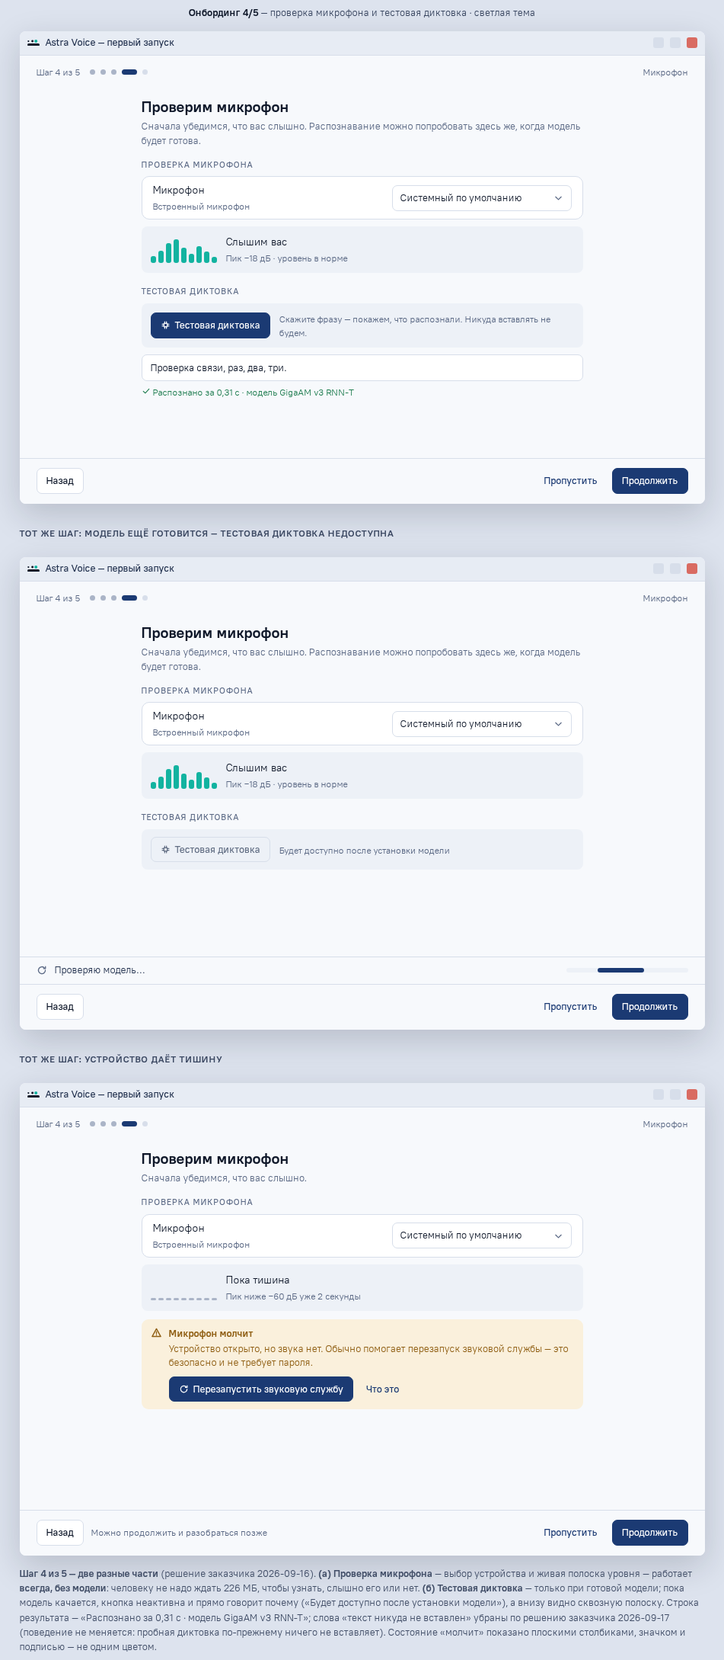
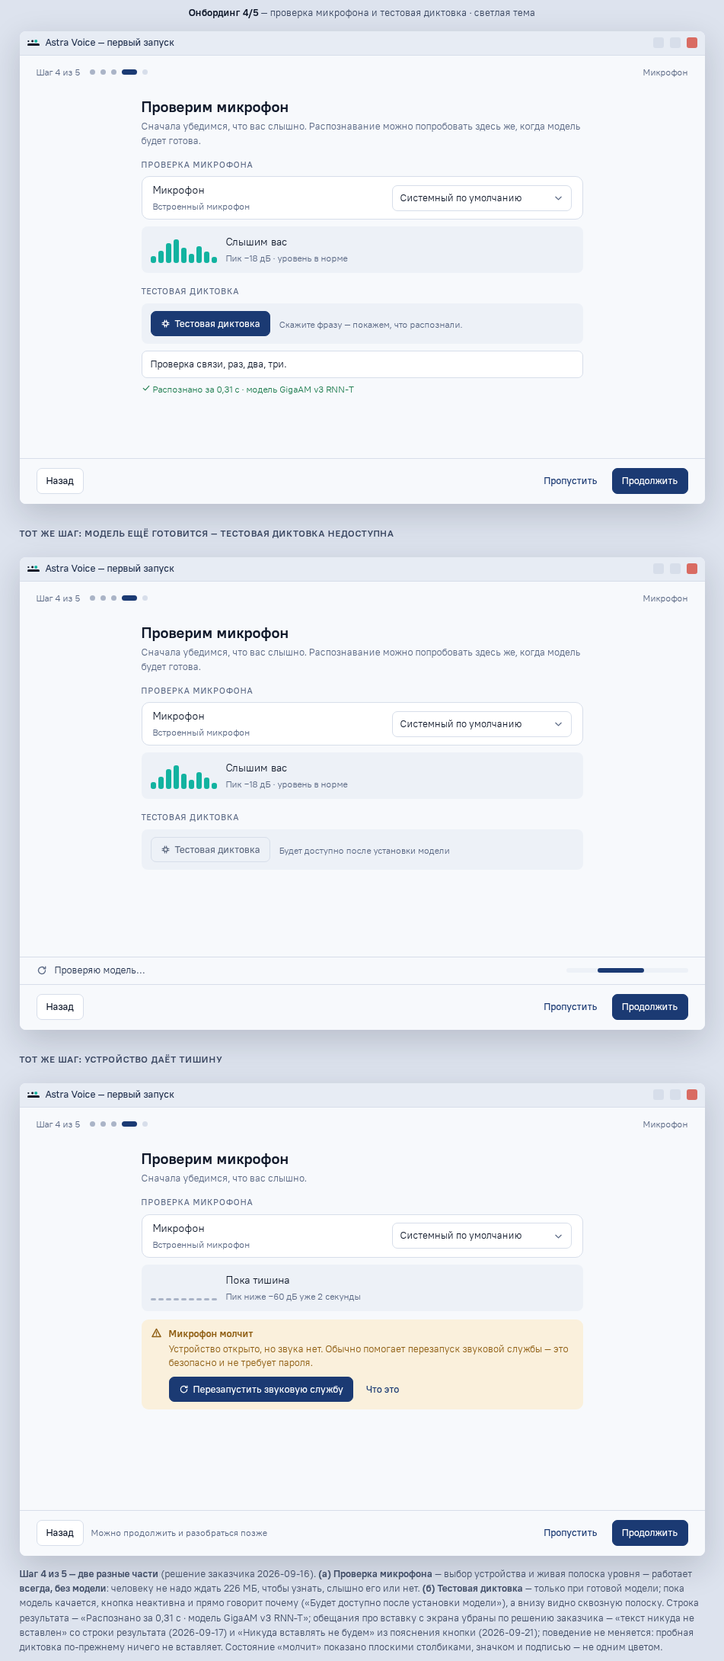
Макет шага 4: убрана фраза «Никуда вставлять не будем» (решение заказчика)

diff --git a/design/mockups/final/08-onboarding-4-mic.html b/design/mockups/final/08-onboarding-4-mic.html
@@ -350,6 +350,6 @@ table.t td.f{font-family:var(--font-mono);font-size:11.5px}
 </style></head>
 <body class="light">
 <div class="cap"><b>Онбординг 4/5</b> — проверка микрофона и тестовая диктовка · светлая тема</div>
-<div class="win" style="width:900px;height:620px"><div class="tbar"><svg viewBox="0 0 100 51.7238" width="16" height="8.28" aria-hidden="true" style="flex:none"><circle cx="8.1233" cy="12.8619" r="6.7694" fill="var(--fg1)"/><circle cx="41.4966" cy="12.8619" r="9.3418" fill="var(--fg1)"/><circle cx="69.7928" cy="12.8619" r="12.8619" fill="var(--accent)"/><rect x="0" y="31.7238" width="100" height="20" rx="10" fill="var(--fg1)"/></svg><span class="t">Astra Voice — первый запуск</span><span class="sp"></span><span class="wbtn"></span><span class="wbtn"></span><span class="wbtn c"></span></div><div style="display:flex;align-items:center;gap:12px;padding:14px 22px 0"><span class="c12">Шаг 4 из 5</span><span class="steps"><span class="sd dn"></span><span class="sd dn"></span><span class="sd dn"></span><span class="sd on"></span><span class="sd "></span></span><span style="flex:1"></span><span class="c12">Микрофон</span></div><div class="obody"><div style="width:580px"><div class="h2">Проверим микрофон</div><div class="sm" style="margin:4px 0 14px">Сначала убедимся, что вас слышно. Распознавание можно попробовать здесь же, когда модель будет готова.</div><div class="grp" style="margin:0 0 7px">Проверка микрофона</div><div class="card"><div class="r"><div class="left"><div class="lbl">Микрофон</div><div class="sub">Встроенный микрофон</div></div><span class="sel" style="width:236px"><span>Системный по умолчанию</span><span style="flex:1"></span><svg viewBox="0 0 16 16" width="13" height="13" fill="none" stroke="var(--fg3)" stroke-width="1.5" stroke-linecap="round" stroke-linejoin="round" aria-hidden="true" style="flex:none"><path d="M3.5 6.5L8 11l4.5-4.5"/></svg></span></div></div><div class="lvbox" style="margin-top:9px"><span class="lvl" style="height:34px"><i style="height:9px"></i><i style="height:16px"></i><i style="height:26px"></i><i style="height:31px"></i><i style="height:20px"></i><i style="height:12px"></i><i style="height:22px"></i><i style="height:15px"></i><i style="height:8px"></i></span><div style="flex:1"><div class="lbl">Слышим вас</div><div class="sub">Пик −18 дБ · уровень в норме</div></div></div><div class="grp" style="margin:16px 0 7px">Тестовая диктовка</div><div class="lvbox"><span class="btn pri"><svg viewBox="0 0 16 16" width="13" height="13" fill="none" stroke="currentColor" stroke-width="1.5" stroke-linecap="round" stroke-linejoin="round" aria-hidden="true" style="flex:none"><path d="M5.4 5.4h5.2v5.2H5.4zM6.6 2.6v2.8M9.4 2.6v2.8M6.6 10.6v2.8M9.4 10.6v2.8M2.6 6.6h2.8M2.6 9.4h2.8M10.6 6.6h2.8M10.6 9.4h2.8"/></svg> Тестовая диктовка</span><div style="flex:1"><div class="sub">Скажите фразу — покажем, что распознали. Никуда вставлять не будем.</div></div></div><div class="field" style="margin-top:9px;color:var(--fg1)">Проверка связи, раз, два, три.</div><div class="c12" style="margin-top:7px;color:var(--ok-ink)"><svg viewBox="0 0 16 16" width="12" height="12" fill="none" stroke="var(--ok-ink)" stroke-width="1.5" stroke-linecap="round" stroke-linejoin="round" aria-hidden="true" style="flex:none"><path d="M3 8.4l3.4 3.3L13 4.6"/></svg> Распознано за 0,31 с · модель GigaAM v3 RNN-T</div></div></div><div class="obar"><span class="btn ">Назад</span><span style="flex:1"></span><span class="btn gh">Пропустить</span><span class="btn pri">Продолжить</span></div></div><div class="sech">Тот же шаг: модель ещё готовится — тестовая диктовка недоступна</div><div class="win" style="width:900px;height:620px"><div class="tbar"><svg viewBox="0 0 100 51.7238" width="16" height="8.28" aria-hidden="true" style="flex:none"><circle cx="8.1233" cy="12.8619" r="6.7694" fill="var(--fg1)"/><circle cx="41.4966" cy="12.8619" r="9.3418" fill="var(--fg1)"/><circle cx="69.7928" cy="12.8619" r="12.8619" fill="var(--accent)"/><rect x="0" y="31.7238" width="100" height="20" rx="10" fill="var(--fg1)"/></svg><span class="t">Astra Voice — первый запуск</span><span class="sp"></span><span class="wbtn"></span><span class="wbtn"></span><span class="wbtn c"></span></div><div style="display:flex;align-items:center;gap:12px;padding:14px 22px 0"><span class="c12">Шаг 4 из 5</span><span class="steps"><span class="sd dn"></span><span class="sd dn"></span><span class="sd dn"></span><span class="sd on"></span><span class="sd "></span></span><span style="flex:1"></span><span class="c12">Микрофон</span></div><div class="obody"><div style="width:580px"><div class="h2">Проверим микрофон</div><div class="sm" style="margin:4px 0 14px">Сначала убедимся, что вас слышно. Распознавание можно попробовать здесь же, когда модель будет готова.</div><div class="grp" style="margin:0 0 7px">Проверка микрофона</div><div class="card"><div class="r"><div class="left"><div class="lbl">Микрофон</div><div class="sub">Встроенный микрофон</div></div><span class="sel" style="width:236px"><span>Системный по умолчанию</span><span style="flex:1"></span><svg viewBox="0 0 16 16" width="13" height="13" fill="none" stroke="var(--fg3)" stroke-width="1.5" stroke-linecap="round" stroke-linejoin="round" aria-hidden="true" style="flex:none"><path d="M3.5 6.5L8 11l4.5-4.5"/></svg></span></div></div><div class="lvbox" style="margin-top:9px"><span class="lvl" style="height:34px"><i style="height:9px"></i><i style="height:16px"></i><i style="height:26px"></i><i style="height:31px"></i><i style="height:20px"></i><i style="height:12px"></i><i style="height:22px"></i><i style="height:15px"></i><i style="height:8px"></i></span><div style="flex:1"><div class="lbl">Слышим вас</div><div class="sub">Пик −18 дБ · уровень в норме</div></div></div><div class="grp" style="margin:16px 0 7px">Тестовая диктовка</div><div class="lvbox"><span class="btn dis"><svg viewBox="0 0 16 16" width="13" height="13" fill="none" stroke="currentColor" stroke-width="1.5" stroke-linecap="round" stroke-linejoin="round" aria-hidden="true" style="flex:none"><path d="M5.4 5.4h5.2v5.2H5.4zM6.6 2.6v2.8M9.4 2.6v2.8M6.6 10.6v2.8M9.4 10.6v2.8M2.6 6.6h2.8M2.6 9.4h2.8M10.6 6.6h2.8M10.6 9.4h2.8"/></svg> Тестовая диктовка</span><div style="flex:1"><div class="sub">Будет доступно после установки модели</div></div></div></div></div><div class="dlbar"><svg viewBox="0 0 16 16" width="14" height="14" fill="none" stroke="var(--fg3)" stroke-width="1.5" stroke-linecap="round" stroke-linejoin="round" aria-hidden="true" style="flex:none"><path d="M13.2 8a5.2 5.2 0 1 1-1.6-3.7M13.4 2.6v2.9h-2.9"/></svg><span class="ttl">Проверяю модель…</span><span class="sp"></span><span class="prog ind" style="width:160px;flex:none"><i></i></span></div><div class="obar"><span class="btn ">Назад</span><span style="flex:1"></span><span class="btn gh">Пропустить</span><span class="btn pri">Продолжить</span></div></div><div class="sech">Тот же шаг: устройство даёт тишину</div><div class="win" style="width:900px;height:620px"><div class="tbar"><svg viewBox="0 0 100 51.7238" width="16" height="8.28" aria-hidden="true" style="flex:none"><circle cx="8.1233" cy="12.8619" r="6.7694" fill="var(--fg1)"/><circle cx="41.4966" cy="12.8619" r="9.3418" fill="var(--fg1)"/><circle cx="69.7928" cy="12.8619" r="12.8619" fill="var(--accent)"/><rect x="0" y="31.7238" width="100" height="20" rx="10" fill="var(--fg1)"/></svg><span class="t">Astra Voice — первый запуск</span><span class="sp"></span><span class="wbtn"></span><span class="wbtn"></span><span class="wbtn c"></span></div><div style="display:flex;align-items:center;gap:12px;padding:14px 22px 0"><span class="c12">Шаг 4 из 5</span><span class="steps"><span class="sd dn"></span><span class="sd dn"></span><span class="sd dn"></span><span class="sd on"></span><span class="sd "></span></span><span style="flex:1"></span><span class="c12">Микрофон</span></div><div class="obody"><div style="width:580px"><div class="h2">Проверим микрофон</div><div class="sm" style="margin:4px 0 14px">Сначала убедимся, что вас слышно.</div><div class="grp" style="margin:0 0 7px">Проверка микрофона</div><div class="card"><div class="r"><div class="left"><div class="lbl">Микрофон</div><div class="sub">Встроенный микрофон</div></div><span class="sel" style="width:236px"><span>Системный по умолчанию</span><span style="flex:1"></span><svg viewBox="0 0 16 16" width="13" height="13" fill="none" stroke="var(--fg3)" stroke-width="1.5" stroke-linecap="round" stroke-linejoin="round" aria-hidden="true" style="flex:none"><path d="M3.5 6.5L8 11l4.5-4.5"/></svg></span></div></div><div class="lvbox" style="margin-top:9px"><span class="lvl flat" style="height:34px"><i style="height:3px"></i><i style="height:3px"></i><i style="height:3px"></i><i style="height:3px"></i><i style="height:3px"></i><i style="height:3px"></i><i style="height:3px"></i><i style="height:3px"></i><i style="height:3px"></i></span><div style="flex:1"><div class="lbl">Пока тишина</div><div class="sub">Пик ниже −60 дБ уже 2 секунды</div></div></div><div class="note w" style="margin-top:11px"><svg viewBox="0 0 16 16" width="15" height="15" fill="none" stroke="var(--warn-ink)" stroke-width="1.5" stroke-linecap="round" stroke-linejoin="round" aria-hidden="true" style="flex:none"><path d="M8 2.6l6 10.8H2zM8 6.6v3.1M8 11.4v.1"/></svg><div><b>Микрофон молчит</b>Устройство открыто, но звука нет. Обычно помогает перезапуск звуковой службы — это безопасно и не требует пароля.<div style="display:flex;gap:8px;margin-top:9px;align-items:center"><span class="btn pri"><svg viewBox="0 0 16 16" width="13" height="13" fill="none" stroke="currentColor" stroke-width="1.5" stroke-linecap="round" stroke-linejoin="round" aria-hidden="true" style="flex:none"><path d="M13.2 8a5.2 5.2 0 1 1-1.6-3.7M13.4 2.6v2.9h-2.9"/></svg> Перезапустить звуковую службу</span><span class="btn gh">Что это</span></div></div></div></div></div><div class="obar"><span class="btn ">Назад</span><span class="c12">Можно продолжить и разобраться позже</span><span style="flex:1"></span><span class="btn gh">Пропустить</span><span class="btn pri">Продолжить</span></div></div>
-<div class="legend"><b>Шаг 4 из 5 — две разные части</b> (решение заказчика 2026-09-16). <b>(а) Проверка микрофона</b> — выбор устройства и живая полоска уровня — работает <b>всегда, без модели</b>: человеку не надо ждать 226 МБ, чтобы узнать, слышно его или нет. <b>(б) Тестовая диктовка</b> — только при готовой модели; пока модель качается, кнопка неактивна и прямо говорит почему («Будет доступно после установки модели»), а внизу видно сквозную полоску. Строка результата — «Распознано за 0,31 с · модель GigaAM v3 RNN-T»; слова «текст никуда не вставлен» убраны по решению заказчика 2026-09-17 (поведение не меняется: пробная диктовка по-прежнему ничего не вставляет). Состояние «молчит» показано плоскими столбиками, значком и подписью — не одним цветом.</div>
+<div class="win" style="width:900px;height:620px"><div class="tbar"><svg viewBox="0 0 100 51.7238" width="16" height="8.28" aria-hidden="true" style="flex:none"><circle cx="8.1233" cy="12.8619" r="6.7694" fill="var(--fg1)"/><circle cx="41.4966" cy="12.8619" r="9.3418" fill="var(--fg1)"/><circle cx="69.7928" cy="12.8619" r="12.8619" fill="var(--accent)"/><rect x="0" y="31.7238" width="100" height="20" rx="10" fill="var(--fg1)"/></svg><span class="t">Astra Voice — первый запуск</span><span class="sp"></span><span class="wbtn"></span><span class="wbtn"></span><span class="wbtn c"></span></div><div style="display:flex;align-items:center;gap:12px;padding:14px 22px 0"><span class="c12">Шаг 4 из 5</span><span class="steps"><span class="sd dn"></span><span class="sd dn"></span><span class="sd dn"></span><span class="sd on"></span><span class="sd "></span></span><span style="flex:1"></span><span class="c12">Микрофон</span></div><div class="obody"><div style="width:580px"><div class="h2">Проверим микрофон</div><div class="sm" style="margin:4px 0 14px">Сначала убедимся, что вас слышно. Распознавание можно попробовать здесь же, когда модель будет готова.</div><div class="grp" style="margin:0 0 7px">Проверка микрофона</div><div class="card"><div class="r"><div class="left"><div class="lbl">Микрофон</div><div class="sub">Встроенный микрофон</div></div><span class="sel" style="width:236px"><span>Системный по умолчанию</span><span style="flex:1"></span><svg viewBox="0 0 16 16" width="13" height="13" fill="none" stroke="var(--fg3)" stroke-width="1.5" stroke-linecap="round" stroke-linejoin="round" aria-hidden="true" style="flex:none"><path d="M3.5 6.5L8 11l4.5-4.5"/></svg></span></div></div><div class="lvbox" style="margin-top:9px"><span class="lvl" style="height:34px"><i style="height:9px"></i><i style="height:16px"></i><i style="height:26px"></i><i style="height:31px"></i><i style="height:20px"></i><i style="height:12px"></i><i style="height:22px"></i><i style="height:15px"></i><i style="height:8px"></i></span><div style="flex:1"><div class="lbl">Слышим вас</div><div class="sub">Пик −18 дБ · уровень в норме</div></div></div><div class="grp" style="margin:16px 0 7px">Тестовая диктовка</div><div class="lvbox"><span class="btn pri"><svg viewBox="0 0 16 16" width="13" height="13" fill="none" stroke="currentColor" stroke-width="1.5" stroke-linecap="round" stroke-linejoin="round" aria-hidden="true" style="flex:none"><path d="M5.4 5.4h5.2v5.2H5.4zM6.6 2.6v2.8M9.4 2.6v2.8M6.6 10.6v2.8M9.4 10.6v2.8M2.6 6.6h2.8M2.6 9.4h2.8M10.6 6.6h2.8M10.6 9.4h2.8"/></svg> Тестовая диктовка</span><div style="flex:1"><div class="sub">Скажите фразу — покажем, что распознали.</div></div></div><div class="field" style="margin-top:9px;color:var(--fg1)">Проверка связи, раз, два, три.</div><div class="c12" style="margin-top:7px;color:var(--ok-ink)"><svg viewBox="0 0 16 16" width="12" height="12" fill="none" stroke="var(--ok-ink)" stroke-width="1.5" stroke-linecap="round" stroke-linejoin="round" aria-hidden="true" style="flex:none"><path d="M3 8.4l3.4 3.3L13 4.6"/></svg> Распознано за 0,31 с · модель GigaAM v3 RNN-T</div></div></div><div class="obar"><span class="btn ">Назад</span><span style="flex:1"></span><span class="btn gh">Пропустить</span><span class="btn pri">Продолжить</span></div></div><div class="sech">Тот же шаг: модель ещё готовится — тестовая диктовка недоступна</div><div class="win" style="width:900px;height:620px"><div class="tbar"><svg viewBox="0 0 100 51.7238" width="16" height="8.28" aria-hidden="true" style="flex:none"><circle cx="8.1233" cy="12.8619" r="6.7694" fill="var(--fg1)"/><circle cx="41.4966" cy="12.8619" r="9.3418" fill="var(--fg1)"/><circle cx="69.7928" cy="12.8619" r="12.8619" fill="var(--accent)"/><rect x="0" y="31.7238" width="100" height="20" rx="10" fill="var(--fg1)"/></svg><span class="t">Astra Voice — первый запуск</span><span class="sp"></span><span class="wbtn"></span><span class="wbtn"></span><span class="wbtn c"></span></div><div style="display:flex;align-items:center;gap:12px;padding:14px 22px 0"><span class="c12">Шаг 4 из 5</span><span class="steps"><span class="sd dn"></span><span class="sd dn"></span><span class="sd dn"></span><span class="sd on"></span><span class="sd "></span></span><span style="flex:1"></span><span class="c12">Микрофон</span></div><div class="obody"><div style="width:580px"><div class="h2">Проверим микрофон</div><div class="sm" style="margin:4px 0 14px">Сначала убедимся, что вас слышно. Распознавание можно попробовать здесь же, когда модель будет готова.</div><div class="grp" style="margin:0 0 7px">Проверка микрофона</div><div class="card"><div class="r"><div class="left"><div class="lbl">Микрофон</div><div class="sub">Встроенный микрофон</div></div><span class="sel" style="width:236px"><span>Системный по умолчанию</span><span style="flex:1"></span><svg viewBox="0 0 16 16" width="13" height="13" fill="none" stroke="var(--fg3)" stroke-width="1.5" stroke-linecap="round" stroke-linejoin="round" aria-hidden="true" style="flex:none"><path d="M3.5 6.5L8 11l4.5-4.5"/></svg></span></div></div><div class="lvbox" style="margin-top:9px"><span class="lvl" style="height:34px"><i style="height:9px"></i><i style="height:16px"></i><i style="height:26px"></i><i style="height:31px"></i><i style="height:20px"></i><i style="height:12px"></i><i style="height:22px"></i><i style="height:15px"></i><i style="height:8px"></i></span><div style="flex:1"><div class="lbl">Слышим вас</div><div class="sub">Пик −18 дБ · уровень в норме</div></div></div><div class="grp" style="margin:16px 0 7px">Тестовая диктовка</div><div class="lvbox"><span class="btn dis"><svg viewBox="0 0 16 16" width="13" height="13" fill="none" stroke="currentColor" stroke-width="1.5" stroke-linecap="round" stroke-linejoin="round" aria-hidden="true" style="flex:none"><path d="M5.4 5.4h5.2v5.2H5.4zM6.6 2.6v2.8M9.4 2.6v2.8M6.6 10.6v2.8M9.4 10.6v2.8M2.6 6.6h2.8M2.6 9.4h2.8M10.6 6.6h2.8M10.6 9.4h2.8"/></svg> Тестовая диктовка</span><div style="flex:1"><div class="sub">Будет доступно после установки модели</div></div></div></div></div><div class="dlbar"><svg viewBox="0 0 16 16" width="14" height="14" fill="none" stroke="var(--fg3)" stroke-width="1.5" stroke-linecap="round" stroke-linejoin="round" aria-hidden="true" style="flex:none"><path d="M13.2 8a5.2 5.2 0 1 1-1.6-3.7M13.4 2.6v2.9h-2.9"/></svg><span class="ttl">Проверяю модель…</span><span class="sp"></span><span class="prog ind" style="width:160px;flex:none"><i></i></span></div><div class="obar"><span class="btn ">Назад</span><span style="flex:1"></span><span class="btn gh">Пропустить</span><span class="btn pri">Продолжить</span></div></div><div class="sech">Тот же шаг: устройство даёт тишину</div><div class="win" style="width:900px;height:620px"><div class="tbar"><svg viewBox="0 0 100 51.7238" width="16" height="8.28" aria-hidden="true" style="flex:none"><circle cx="8.1233" cy="12.8619" r="6.7694" fill="var(--fg1)"/><circle cx="41.4966" cy="12.8619" r="9.3418" fill="var(--fg1)"/><circle cx="69.7928" cy="12.8619" r="12.8619" fill="var(--accent)"/><rect x="0" y="31.7238" width="100" height="20" rx="10" fill="var(--fg1)"/></svg><span class="t">Astra Voice — первый запуск</span><span class="sp"></span><span class="wbtn"></span><span class="wbtn"></span><span class="wbtn c"></span></div><div style="display:flex;align-items:center;gap:12px;padding:14px 22px 0"><span class="c12">Шаг 4 из 5</span><span class="steps"><span class="sd dn"></span><span class="sd dn"></span><span class="sd dn"></span><span class="sd on"></span><span class="sd "></span></span><span style="flex:1"></span><span class="c12">Микрофон</span></div><div class="obody"><div style="width:580px"><div class="h2">Проверим микрофон</div><div class="sm" style="margin:4px 0 14px">Сначала убедимся, что вас слышно.</div><div class="grp" style="margin:0 0 7px">Проверка микрофона</div><div class="card"><div class="r"><div class="left"><div class="lbl">Микрофон</div><div class="sub">Встроенный микрофон</div></div><span class="sel" style="width:236px"><span>Системный по умолчанию</span><span style="flex:1"></span><svg viewBox="0 0 16 16" width="13" height="13" fill="none" stroke="var(--fg3)" stroke-width="1.5" stroke-linecap="round" stroke-linejoin="round" aria-hidden="true" style="flex:none"><path d="M3.5 6.5L8 11l4.5-4.5"/></svg></span></div></div><div class="lvbox" style="margin-top:9px"><span class="lvl flat" style="height:34px"><i style="height:3px"></i><i style="height:3px"></i><i style="height:3px"></i><i style="height:3px"></i><i style="height:3px"></i><i style="height:3px"></i><i style="height:3px"></i><i style="height:3px"></i><i style="height:3px"></i></span><div style="flex:1"><div class="lbl">Пока тишина</div><div class="sub">Пик ниже −60 дБ уже 2 секунды</div></div></div><div class="note w" style="margin-top:11px"><svg viewBox="0 0 16 16" width="15" height="15" fill="none" stroke="var(--warn-ink)" stroke-width="1.5" stroke-linecap="round" stroke-linejoin="round" aria-hidden="true" style="flex:none"><path d="M8 2.6l6 10.8H2zM8 6.6v3.1M8 11.4v.1"/></svg><div><b>Микрофон молчит</b>Устройство открыто, но звука нет. Обычно помогает перезапуск звуковой службы — это безопасно и не требует пароля.<div style="display:flex;gap:8px;margin-top:9px;align-items:center"><span class="btn pri"><svg viewBox="0 0 16 16" width="13" height="13" fill="none" stroke="currentColor" stroke-width="1.5" stroke-linecap="round" stroke-linejoin="round" aria-hidden="true" style="flex:none"><path d="M13.2 8a5.2 5.2 0 1 1-1.6-3.7M13.4 2.6v2.9h-2.9"/></svg> Перезапустить звуковую службу</span><span class="btn gh">Что это</span></div></div></div></div></div><div class="obar"><span class="btn ">Назад</span><span class="c12">Можно продолжить и разобраться позже</span><span style="flex:1"></span><span class="btn gh">Пропустить</span><span class="btn pri">Продолжить</span></div></div>
+<div class="legend"><b>Шаг 4 из 5 — две разные части</b> (решение заказчика 2026-09-16). <b>(а) Проверка микрофона</b> — выбор устройства и живая полоска уровня — работает <b>всегда, без модели</b>: человеку не надо ждать 226 МБ, чтобы узнать, слышно его или нет. <b>(б) Тестовая диктовка</b> — только при готовой модели; пока модель качается, кнопка неактивна и прямо говорит почему («Будет доступно после установки модели»), а внизу видно сквозную полоску. Строка результата — «Распознано за 0,31 с · модель GigaAM v3 RNN-T»; обещания про вставку с экрана убраны по решению заказчика — «текст никуда не вставлен» со строки результата (2026-09-17) и «Никуда вставлять не будем» из пояснения кнопки (2026-09-21); поведение не меняется: пробная диктовка по-прежнему ничего не вставляет. Состояние «молчит» показано плоскими столбиками, значком и подписью — не одним цветом.</div>
 </body></html>

diff --git a/design/mockups/final/08-onboarding-4-mic-dark.html b/design/mockups/final/08-onboarding-4-mic-dark.html
@@ -350,6 +350,6 @@ table.t td.f{font-family:var(--font-mono);font-size:11.5px}
 </style></head>
 <body class="dark">
 <div class="cap"><b>Онбординг 4/5</b> — проверка микрофона и тестовая диктовка · тёмная тема</div>
-<div class="win" style="width:900px;height:620px"><div class="tbar"><svg viewBox="0 0 100 51.7238" width="16" height="8.28" aria-hidden="true" style="flex:none"><circle cx="8.1233" cy="12.8619" r="6.7694" fill="var(--fg1)"/><circle cx="41.4966" cy="12.8619" r="9.3418" fill="var(--fg1)"/><circle cx="69.7928" cy="12.8619" r="12.8619" fill="var(--accent)"/><rect x="0" y="31.7238" width="100" height="20" rx="10" fill="var(--fg1)"/></svg><span class="t">Astra Voice — первый запуск</span><span class="sp"></span><span class="wbtn"></span><span class="wbtn"></span><span class="wbtn c"></span></div><div style="display:flex;align-items:center;gap:12px;padding:14px 22px 0"><span class="c12">Шаг 4 из 5</span><span class="steps"><span class="sd dn"></span><span class="sd dn"></span><span class="sd dn"></span><span class="sd on"></span><span class="sd "></span></span><span style="flex:1"></span><span class="c12">Микрофон</span></div><div class="obody"><div style="width:580px"><div class="h2">Проверим микрофон</div><div class="sm" style="margin:4px 0 14px">Сначала убедимся, что вас слышно. Распознавание можно попробовать здесь же, когда модель будет готова.</div><div class="grp" style="margin:0 0 7px">Проверка микрофона</div><div class="card"><div class="r"><div class="left"><div class="lbl">Микрофон</div><div class="sub">Встроенный микрофон</div></div><span class="sel" style="width:236px"><span>Системный по умолчанию</span><span style="flex:1"></span><svg viewBox="0 0 16 16" width="13" height="13" fill="none" stroke="var(--fg3)" stroke-width="1.5" stroke-linecap="round" stroke-linejoin="round" aria-hidden="true" style="flex:none"><path d="M3.5 6.5L8 11l4.5-4.5"/></svg></span></div></div><div class="lvbox" style="margin-top:9px"><span class="lvl" style="height:34px"><i style="height:9px"></i><i style="height:16px"></i><i style="height:26px"></i><i style="height:31px"></i><i style="height:20px"></i><i style="height:12px"></i><i style="height:22px"></i><i style="height:15px"></i><i style="height:8px"></i></span><div style="flex:1"><div class="lbl">Слышим вас</div><div class="sub">Пик −18 дБ · уровень в норме</div></div></div><div class="grp" style="margin:16px 0 7px">Тестовая диктовка</div><div class="lvbox"><span class="btn pri"><svg viewBox="0 0 16 16" width="13" height="13" fill="none" stroke="currentColor" stroke-width="1.5" stroke-linecap="round" stroke-linejoin="round" aria-hidden="true" style="flex:none"><path d="M5.4 5.4h5.2v5.2H5.4zM6.6 2.6v2.8M9.4 2.6v2.8M6.6 10.6v2.8M9.4 10.6v2.8M2.6 6.6h2.8M2.6 9.4h2.8M10.6 6.6h2.8M10.6 9.4h2.8"/></svg> Тестовая диктовка</span><div style="flex:1"><div class="sub">Скажите фразу — покажем, что распознали. Никуда вставлять не будем.</div></div></div><div class="field" style="margin-top:9px;color:var(--fg1)">Проверка связи, раз, два, три.</div><div class="c12" style="margin-top:7px;color:var(--ok-ink)"><svg viewBox="0 0 16 16" width="12" height="12" fill="none" stroke="var(--ok-ink)" stroke-width="1.5" stroke-linecap="round" stroke-linejoin="round" aria-hidden="true" style="flex:none"><path d="M3 8.4l3.4 3.3L13 4.6"/></svg> Распознано за 0,31 с · модель GigaAM v3 RNN-T</div></div></div><div class="obar"><span class="btn ">Назад</span><span style="flex:1"></span><span class="btn gh">Пропустить</span><span class="btn pri">Продолжить</span></div></div><div class="sech">Тот же шаг: модель ещё готовится — тестовая диктовка недоступна</div><div class="win" style="width:900px;height:620px"><div class="tbar"><svg viewBox="0 0 100 51.7238" width="16" height="8.28" aria-hidden="true" style="flex:none"><circle cx="8.1233" cy="12.8619" r="6.7694" fill="var(--fg1)"/><circle cx="41.4966" cy="12.8619" r="9.3418" fill="var(--fg1)"/><circle cx="69.7928" cy="12.8619" r="12.8619" fill="var(--accent)"/><rect x="0" y="31.7238" width="100" height="20" rx="10" fill="var(--fg1)"/></svg><span class="t">Astra Voice — первый запуск</span><span class="sp"></span><span class="wbtn"></span><span class="wbtn"></span><span class="wbtn c"></span></div><div style="display:flex;align-items:center;gap:12px;padding:14px 22px 0"><span class="c12">Шаг 4 из 5</span><span class="steps"><span class="sd dn"></span><span class="sd dn"></span><span class="sd dn"></span><span class="sd on"></span><span class="sd "></span></span><span style="flex:1"></span><span class="c12">Микрофон</span></div><div class="obody"><div style="width:580px"><div class="h2">Проверим микрофон</div><div class="sm" style="margin:4px 0 14px">Сначала убедимся, что вас слышно. Распознавание можно попробовать здесь же, когда модель будет готова.</div><div class="grp" style="margin:0 0 7px">Проверка микрофона</div><div class="card"><div class="r"><div class="left"><div class="lbl">Микрофон</div><div class="sub">Встроенный микрофон</div></div><span class="sel" style="width:236px"><span>Системный по умолчанию</span><span style="flex:1"></span><svg viewBox="0 0 16 16" width="13" height="13" fill="none" stroke="var(--fg3)" stroke-width="1.5" stroke-linecap="round" stroke-linejoin="round" aria-hidden="true" style="flex:none"><path d="M3.5 6.5L8 11l4.5-4.5"/></svg></span></div></div><div class="lvbox" style="margin-top:9px"><span class="lvl" style="height:34px"><i style="height:9px"></i><i style="height:16px"></i><i style="height:26px"></i><i style="height:31px"></i><i style="height:20px"></i><i style="height:12px"></i><i style="height:22px"></i><i style="height:15px"></i><i style="height:8px"></i></span><div style="flex:1"><div class="lbl">Слышим вас</div><div class="sub">Пик −18 дБ · уровень в норме</div></div></div><div class="grp" style="margin:16px 0 7px">Тестовая диктовка</div><div class="lvbox"><span class="btn dis"><svg viewBox="0 0 16 16" width="13" height="13" fill="none" stroke="currentColor" stroke-width="1.5" stroke-linecap="round" stroke-linejoin="round" aria-hidden="true" style="flex:none"><path d="M5.4 5.4h5.2v5.2H5.4zM6.6 2.6v2.8M9.4 2.6v2.8M6.6 10.6v2.8M9.4 10.6v2.8M2.6 6.6h2.8M2.6 9.4h2.8M10.6 6.6h2.8M10.6 9.4h2.8"/></svg> Тестовая диктовка</span><div style="flex:1"><div class="sub">Будет доступно после установки модели</div></div></div></div></div><div class="dlbar"><svg viewBox="0 0 16 16" width="14" height="14" fill="none" stroke="var(--fg3)" stroke-width="1.5" stroke-linecap="round" stroke-linejoin="round" aria-hidden="true" style="flex:none"><path d="M13.2 8a5.2 5.2 0 1 1-1.6-3.7M13.4 2.6v2.9h-2.9"/></svg><span class="ttl">Проверяю модель…</span><span class="sp"></span><span class="prog ind" style="width:160px;flex:none"><i></i></span></div><div class="obar"><span class="btn ">Назад</span><span style="flex:1"></span><span class="btn gh">Пропустить</span><span class="btn pri">Продолжить</span></div></div><div class="sech">Тот же шаг: устройство даёт тишину</div><div class="win" style="width:900px;height:620px"><div class="tbar"><svg viewBox="0 0 100 51.7238" width="16" height="8.28" aria-hidden="true" style="flex:none"><circle cx="8.1233" cy="12.8619" r="6.7694" fill="var(--fg1)"/><circle cx="41.4966" cy="12.8619" r="9.3418" fill="var(--fg1)"/><circle cx="69.7928" cy="12.8619" r="12.8619" fill="var(--accent)"/><rect x="0" y="31.7238" width="100" height="20" rx="10" fill="var(--fg1)"/></svg><span class="t">Astra Voice — первый запуск</span><span class="sp"></span><span class="wbtn"></span><span class="wbtn"></span><span class="wbtn c"></span></div><div style="display:flex;align-items:center;gap:12px;padding:14px 22px 0"><span class="c12">Шаг 4 из 5</span><span class="steps"><span class="sd dn"></span><span class="sd dn"></span><span class="sd dn"></span><span class="sd on"></span><span class="sd "></span></span><span style="flex:1"></span><span class="c12">Микрофон</span></div><div class="obody"><div style="width:580px"><div class="h2">Проверим микрофон</div><div class="sm" style="margin:4px 0 14px">Сначала убедимся, что вас слышно.</div><div class="grp" style="margin:0 0 7px">Проверка микрофона</div><div class="card"><div class="r"><div class="left"><div class="lbl">Микрофон</div><div class="sub">Встроенный микрофон</div></div><span class="sel" style="width:236px"><span>Системный по умолчанию</span><span style="flex:1"></span><svg viewBox="0 0 16 16" width="13" height="13" fill="none" stroke="var(--fg3)" stroke-width="1.5" stroke-linecap="round" stroke-linejoin="round" aria-hidden="true" style="flex:none"><path d="M3.5 6.5L8 11l4.5-4.5"/></svg></span></div></div><div class="lvbox" style="margin-top:9px"><span class="lvl flat" style="height:34px"><i style="height:3px"></i><i style="height:3px"></i><i style="height:3px"></i><i style="height:3px"></i><i style="height:3px"></i><i style="height:3px"></i><i style="height:3px"></i><i style="height:3px"></i><i style="height:3px"></i></span><div style="flex:1"><div class="lbl">Пока тишина</div><div class="sub">Пик ниже −60 дБ уже 2 секунды</div></div></div><div class="note w" style="margin-top:11px"><svg viewBox="0 0 16 16" width="15" height="15" fill="none" stroke="var(--warn-ink)" stroke-width="1.5" stroke-linecap="round" stroke-linejoin="round" aria-hidden="true" style="flex:none"><path d="M8 2.6l6 10.8H2zM8 6.6v3.1M8 11.4v.1"/></svg><div><b>Микрофон молчит</b>Устройство открыто, но звука нет. Обычно помогает перезапуск звуковой службы — это безопасно и не требует пароля.<div style="display:flex;gap:8px;margin-top:9px;align-items:center"><span class="btn pri"><svg viewBox="0 0 16 16" width="13" height="13" fill="none" stroke="currentColor" stroke-width="1.5" stroke-linecap="round" stroke-linejoin="round" aria-hidden="true" style="flex:none"><path d="M13.2 8a5.2 5.2 0 1 1-1.6-3.7M13.4 2.6v2.9h-2.9"/></svg> Перезапустить звуковую службу</span><span class="btn gh">Что это</span></div></div></div></div></div><div class="obar"><span class="btn ">Назад</span><span class="c12">Можно продолжить и разобраться позже</span><span style="flex:1"></span><span class="btn gh">Пропустить</span><span class="btn pri">Продолжить</span></div></div>
-<div class="legend"><b>Шаг 4 из 5 — две разные части</b> (решение заказчика 2026-09-16). <b>(а) Проверка микрофона</b> — выбор устройства и живая полоска уровня — работает <b>всегда, без модели</b>: человеку не надо ждать 226 МБ, чтобы узнать, слышно его или нет. <b>(б) Тестовая диктовка</b> — только при готовой модели; пока модель качается, кнопка неактивна и прямо говорит почему («Будет доступно после установки модели»), а внизу видно сквозную полоску. Строка результата — «Распознано за 0,31 с · модель GigaAM v3 RNN-T»; слова «текст никуда не вставлен» убраны по решению заказчика 2026-09-17 (поведение не меняется: пробная диктовка по-прежнему ничего не вставляет). Состояние «молчит» показано плоскими столбиками, значком и подписью — не одним цветом.</div>
+<div class="win" style="width:900px;height:620px"><div class="tbar"><svg viewBox="0 0 100 51.7238" width="16" height="8.28" aria-hidden="true" style="flex:none"><circle cx="8.1233" cy="12.8619" r="6.7694" fill="var(--fg1)"/><circle cx="41.4966" cy="12.8619" r="9.3418" fill="var(--fg1)"/><circle cx="69.7928" cy="12.8619" r="12.8619" fill="var(--accent)"/><rect x="0" y="31.7238" width="100" height="20" rx="10" fill="var(--fg1)"/></svg><span class="t">Astra Voice — первый запуск</span><span class="sp"></span><span class="wbtn"></span><span class="wbtn"></span><span class="wbtn c"></span></div><div style="display:flex;align-items:center;gap:12px;padding:14px 22px 0"><span class="c12">Шаг 4 из 5</span><span class="steps"><span class="sd dn"></span><span class="sd dn"></span><span class="sd dn"></span><span class="sd on"></span><span class="sd "></span></span><span style="flex:1"></span><span class="c12">Микрофон</span></div><div class="obody"><div style="width:580px"><div class="h2">Проверим микрофон</div><div class="sm" style="margin:4px 0 14px">Сначала убедимся, что вас слышно. Распознавание можно попробовать здесь же, когда модель будет готова.</div><div class="grp" style="margin:0 0 7px">Проверка микрофона</div><div class="card"><div class="r"><div class="left"><div class="lbl">Микрофон</div><div class="sub">Встроенный микрофон</div></div><span class="sel" style="width:236px"><span>Системный по умолчанию</span><span style="flex:1"></span><svg viewBox="0 0 16 16" width="13" height="13" fill="none" stroke="var(--fg3)" stroke-width="1.5" stroke-linecap="round" stroke-linejoin="round" aria-hidden="true" style="flex:none"><path d="M3.5 6.5L8 11l4.5-4.5"/></svg></span></div></div><div class="lvbox" style="margin-top:9px"><span class="lvl" style="height:34px"><i style="height:9px"></i><i style="height:16px"></i><i style="height:26px"></i><i style="height:31px"></i><i style="height:20px"></i><i style="height:12px"></i><i style="height:22px"></i><i style="height:15px"></i><i style="height:8px"></i></span><div style="flex:1"><div class="lbl">Слышим вас</div><div class="sub">Пик −18 дБ · уровень в норме</div></div></div><div class="grp" style="margin:16px 0 7px">Тестовая диктовка</div><div class="lvbox"><span class="btn pri"><svg viewBox="0 0 16 16" width="13" height="13" fill="none" stroke="currentColor" stroke-width="1.5" stroke-linecap="round" stroke-linejoin="round" aria-hidden="true" style="flex:none"><path d="M5.4 5.4h5.2v5.2H5.4zM6.6 2.6v2.8M9.4 2.6v2.8M6.6 10.6v2.8M9.4 10.6v2.8M2.6 6.6h2.8M2.6 9.4h2.8M10.6 6.6h2.8M10.6 9.4h2.8"/></svg> Тестовая диктовка</span><div style="flex:1"><div class="sub">Скажите фразу — покажем, что распознали.</div></div></div><div class="field" style="margin-top:9px;color:var(--fg1)">Проверка связи, раз, два, три.</div><div class="c12" style="margin-top:7px;color:var(--ok-ink)"><svg viewBox="0 0 16 16" width="12" height="12" fill="none" stroke="var(--ok-ink)" stroke-width="1.5" stroke-linecap="round" stroke-linejoin="round" aria-hidden="true" style="flex:none"><path d="M3 8.4l3.4 3.3L13 4.6"/></svg> Распознано за 0,31 с · модель GigaAM v3 RNN-T</div></div></div><div class="obar"><span class="btn ">Назад</span><span style="flex:1"></span><span class="btn gh">Пропустить</span><span class="btn pri">Продолжить</span></div></div><div class="sech">Тот же шаг: модель ещё готовится — тестовая диктовка недоступна</div><div class="win" style="width:900px;height:620px"><div class="tbar"><svg viewBox="0 0 100 51.7238" width="16" height="8.28" aria-hidden="true" style="flex:none"><circle cx="8.1233" cy="12.8619" r="6.7694" fill="var(--fg1)"/><circle cx="41.4966" cy="12.8619" r="9.3418" fill="var(--fg1)"/><circle cx="69.7928" cy="12.8619" r="12.8619" fill="var(--accent)"/><rect x="0" y="31.7238" width="100" height="20" rx="10" fill="var(--fg1)"/></svg><span class="t">Astra Voice — первый запуск</span><span class="sp"></span><span class="wbtn"></span><span class="wbtn"></span><span class="wbtn c"></span></div><div style="display:flex;align-items:center;gap:12px;padding:14px 22px 0"><span class="c12">Шаг 4 из 5</span><span class="steps"><span class="sd dn"></span><span class="sd dn"></span><span class="sd dn"></span><span class="sd on"></span><span class="sd "></span></span><span style="flex:1"></span><span class="c12">Микрофон</span></div><div class="obody"><div style="width:580px"><div class="h2">Проверим микрофон</div><div class="sm" style="margin:4px 0 14px">Сначала убедимся, что вас слышно. Распознавание можно попробовать здесь же, когда модель будет готова.</div><div class="grp" style="margin:0 0 7px">Проверка микрофона</div><div class="card"><div class="r"><div class="left"><div class="lbl">Микрофон</div><div class="sub">Встроенный микрофон</div></div><span class="sel" style="width:236px"><span>Системный по умолчанию</span><span style="flex:1"></span><svg viewBox="0 0 16 16" width="13" height="13" fill="none" stroke="var(--fg3)" stroke-width="1.5" stroke-linecap="round" stroke-linejoin="round" aria-hidden="true" style="flex:none"><path d="M3.5 6.5L8 11l4.5-4.5"/></svg></span></div></div><div class="lvbox" style="margin-top:9px"><span class="lvl" style="height:34px"><i style="height:9px"></i><i style="height:16px"></i><i style="height:26px"></i><i style="height:31px"></i><i style="height:20px"></i><i style="height:12px"></i><i style="height:22px"></i><i style="height:15px"></i><i style="height:8px"></i></span><div style="flex:1"><div class="lbl">Слышим вас</div><div class="sub">Пик −18 дБ · уровень в норме</div></div></div><div class="grp" style="margin:16px 0 7px">Тестовая диктовка</div><div class="lvbox"><span class="btn dis"><svg viewBox="0 0 16 16" width="13" height="13" fill="none" stroke="currentColor" stroke-width="1.5" stroke-linecap="round" stroke-linejoin="round" aria-hidden="true" style="flex:none"><path d="M5.4 5.4h5.2v5.2H5.4zM6.6 2.6v2.8M9.4 2.6v2.8M6.6 10.6v2.8M9.4 10.6v2.8M2.6 6.6h2.8M2.6 9.4h2.8M10.6 6.6h2.8M10.6 9.4h2.8"/></svg> Тестовая диктовка</span><div style="flex:1"><div class="sub">Будет доступно после установки модели</div></div></div></div></div><div class="dlbar"><svg viewBox="0 0 16 16" width="14" height="14" fill="none" stroke="var(--fg3)" stroke-width="1.5" stroke-linecap="round" stroke-linejoin="round" aria-hidden="true" style="flex:none"><path d="M13.2 8a5.2 5.2 0 1 1-1.6-3.7M13.4 2.6v2.9h-2.9"/></svg><span class="ttl">Проверяю модель…</span><span class="sp"></span><span class="prog ind" style="width:160px;flex:none"><i></i></span></div><div class="obar"><span class="btn ">Назад</span><span style="flex:1"></span><span class="btn gh">Пропустить</span><span class="btn pri">Продолжить</span></div></div><div class="sech">Тот же шаг: устройство даёт тишину</div><div class="win" style="width:900px;height:620px"><div class="tbar"><svg viewBox="0 0 100 51.7238" width="16" height="8.28" aria-hidden="true" style="flex:none"><circle cx="8.1233" cy="12.8619" r="6.7694" fill="var(--fg1)"/><circle cx="41.4966" cy="12.8619" r="9.3418" fill="var(--fg1)"/><circle cx="69.7928" cy="12.8619" r="12.8619" fill="var(--accent)"/><rect x="0" y="31.7238" width="100" height="20" rx="10" fill="var(--fg1)"/></svg><span class="t">Astra Voice — первый запуск</span><span class="sp"></span><span class="wbtn"></span><span class="wbtn"></span><span class="wbtn c"></span></div><div style="display:flex;align-items:center;gap:12px;padding:14px 22px 0"><span class="c12">Шаг 4 из 5</span><span class="steps"><span class="sd dn"></span><span class="sd dn"></span><span class="sd dn"></span><span class="sd on"></span><span class="sd "></span></span><span style="flex:1"></span><span class="c12">Микрофон</span></div><div class="obody"><div style="width:580px"><div class="h2">Проверим микрофон</div><div class="sm" style="margin:4px 0 14px">Сначала убедимся, что вас слышно.</div><div class="grp" style="margin:0 0 7px">Проверка микрофона</div><div class="card"><div class="r"><div class="left"><div class="lbl">Микрофон</div><div class="sub">Встроенный микрофон</div></div><span class="sel" style="width:236px"><span>Системный по умолчанию</span><span style="flex:1"></span><svg viewBox="0 0 16 16" width="13" height="13" fill="none" stroke="var(--fg3)" stroke-width="1.5" stroke-linecap="round" stroke-linejoin="round" aria-hidden="true" style="flex:none"><path d="M3.5 6.5L8 11l4.5-4.5"/></svg></span></div></div><div class="lvbox" style="margin-top:9px"><span class="lvl flat" style="height:34px"><i style="height:3px"></i><i style="height:3px"></i><i style="height:3px"></i><i style="height:3px"></i><i style="height:3px"></i><i style="height:3px"></i><i style="height:3px"></i><i style="height:3px"></i><i style="height:3px"></i></span><div style="flex:1"><div class="lbl">Пока тишина</div><div class="sub">Пик ниже −60 дБ уже 2 секунды</div></div></div><div class="note w" style="margin-top:11px"><svg viewBox="0 0 16 16" width="15" height="15" fill="none" stroke="var(--warn-ink)" stroke-width="1.5" stroke-linecap="round" stroke-linejoin="round" aria-hidden="true" style="flex:none"><path d="M8 2.6l6 10.8H2zM8 6.6v3.1M8 11.4v.1"/></svg><div><b>Микрофон молчит</b>Устройство открыто, но звука нет. Обычно помогает перезапуск звуковой службы — это безопасно и не требует пароля.<div style="display:flex;gap:8px;margin-top:9px;align-items:center"><span class="btn pri"><svg viewBox="0 0 16 16" width="13" height="13" fill="none" stroke="currentColor" stroke-width="1.5" stroke-linecap="round" stroke-linejoin="round" aria-hidden="true" style="flex:none"><path d="M13.2 8a5.2 5.2 0 1 1-1.6-3.7M13.4 2.6v2.9h-2.9"/></svg> Перезапустить звуковую службу</span><span class="btn gh">Что это</span></div></div></div></div></div><div class="obar"><span class="btn ">Назад</span><span class="c12">Можно продолжить и разобраться позже</span><span style="flex:1"></span><span class="btn gh">Пропустить</span><span class="btn pri">Продолжить</span></div></div>
+<div class="legend"><b>Шаг 4 из 5 — две разные части</b> (решение заказчика 2026-09-16). <b>(а) Проверка микрофона</b> — выбор устройства и живая полоска уровня — работает <b>всегда, без модели</b>: человеку не надо ждать 226 МБ, чтобы узнать, слышно его или нет. <b>(б) Тестовая диктовка</b> — только при готовой модели; пока модель качается, кнопка неактивна и прямо говорит почему («Будет доступно после установки модели»), а внизу видно сквозную полоску. Строка результата — «Распознано за 0,31 с · модель GigaAM v3 RNN-T»; обещания про вставку с экрана убраны по решению заказчика — «текст никуда не вставлен» со строки результата (2026-09-17) и «Никуда вставлять не будем» из пояснения кнопки (2026-09-21); поведение не меняется: пробная диктовка по-прежнему ничего не вставляет. Состояние «молчит» показано плоскими столбиками, значком и подписью — не одним цветом.</div>
 </body></html>

diff --git a/design/mockups/final/_p3.py b/design/mockups/final/_p3.py
@@ -186,8 +186,8 @@ def onb4_test(ready=True):
     if ready:
         return ('<div class="grp" style="margin:16px 0 7px">Тестовая диктовка</div>'
                 + f'<div class="lvbox">{btn("Тестовая диктовка", "pri", "chip")}'
-                  '<div style="flex:1"><div class="sub">Скажите фразу — покажем, что распознали. '
-                  'Никуда вставлять не будем.</div></div></div>'
+                  '<div style="flex:1"><div class="sub">Скажите фразу — покажем, '
+                  'что распознали.</div></div></div>'
                 + '<div class="field" style="margin-top:9px;color:var(--fg1)">'
                   'Проверка связи, раз, два, три.</div>'
                 + f'<div class="c12" style="margin-top:7px;color:var(--ok-ink)">'
@@ -230,8 +230,10 @@ def onb4(theme):
            "<b>(б) Тестовая диктовка</b> — только при готовой модели; пока модель качается, кнопка "
            "неактивна и прямо говорит почему («Будет доступно после установки модели»), а внизу видно "
            "сквозную полоску. Строка результата — «Распознано за 0,31 с · модель GigaAM v3 RNN-T»; "
-           "слова «текст никуда не вставлен» убраны по решению заказчика 2026-09-17 (поведение не "
-           "меняется: пробная диктовка по-прежнему ничего не вставляет). Состояние «молчит» показано "
+           "обещания про вставку с экрана убраны по решению заказчика — «текст никуда не вставлен» со "
+           "строки результата (2026-09-17) и «Никуда вставлять не будем» из пояснения кнопки "
+           "(2026-09-21); поведение не меняется: пробная диктовка по-прежнему ничего не вставляет. "
+           "Состояние «молчит» показано "
            "плоскими столбиками, значком и подписью — не одним цветом.")
     return page(f"A · Онбординг 4/5 — {th(theme)}",
                 f'<b>Онбординг 4/5</b> — проверка микрофона и тестовая диктовка · {th(theme)} тема',
